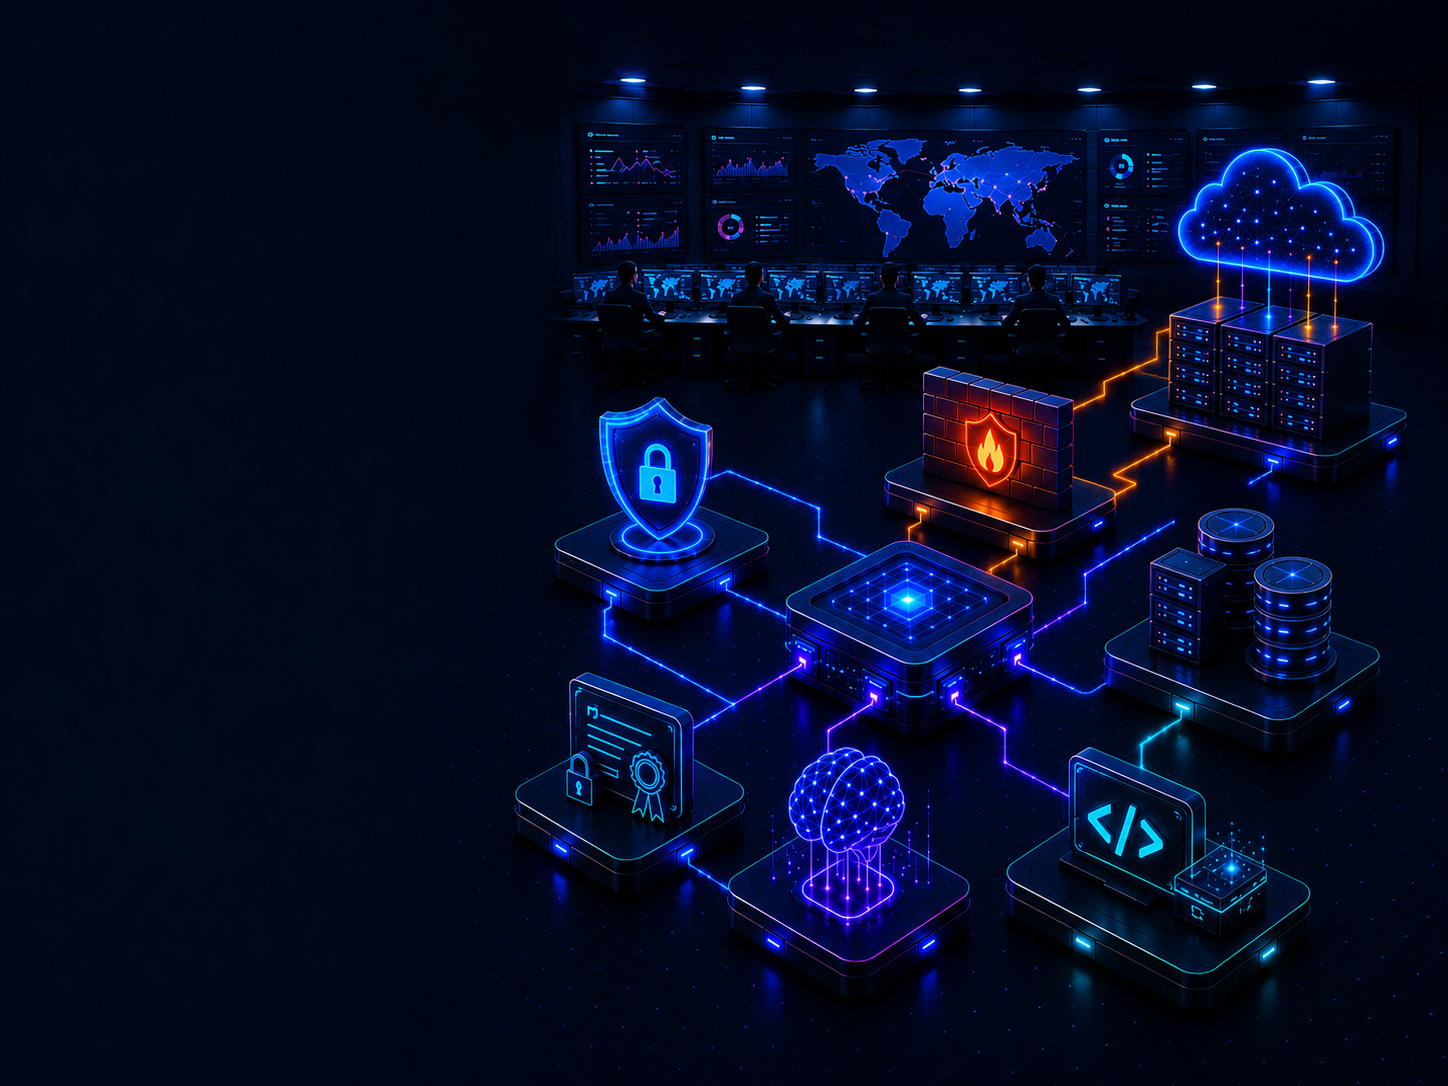
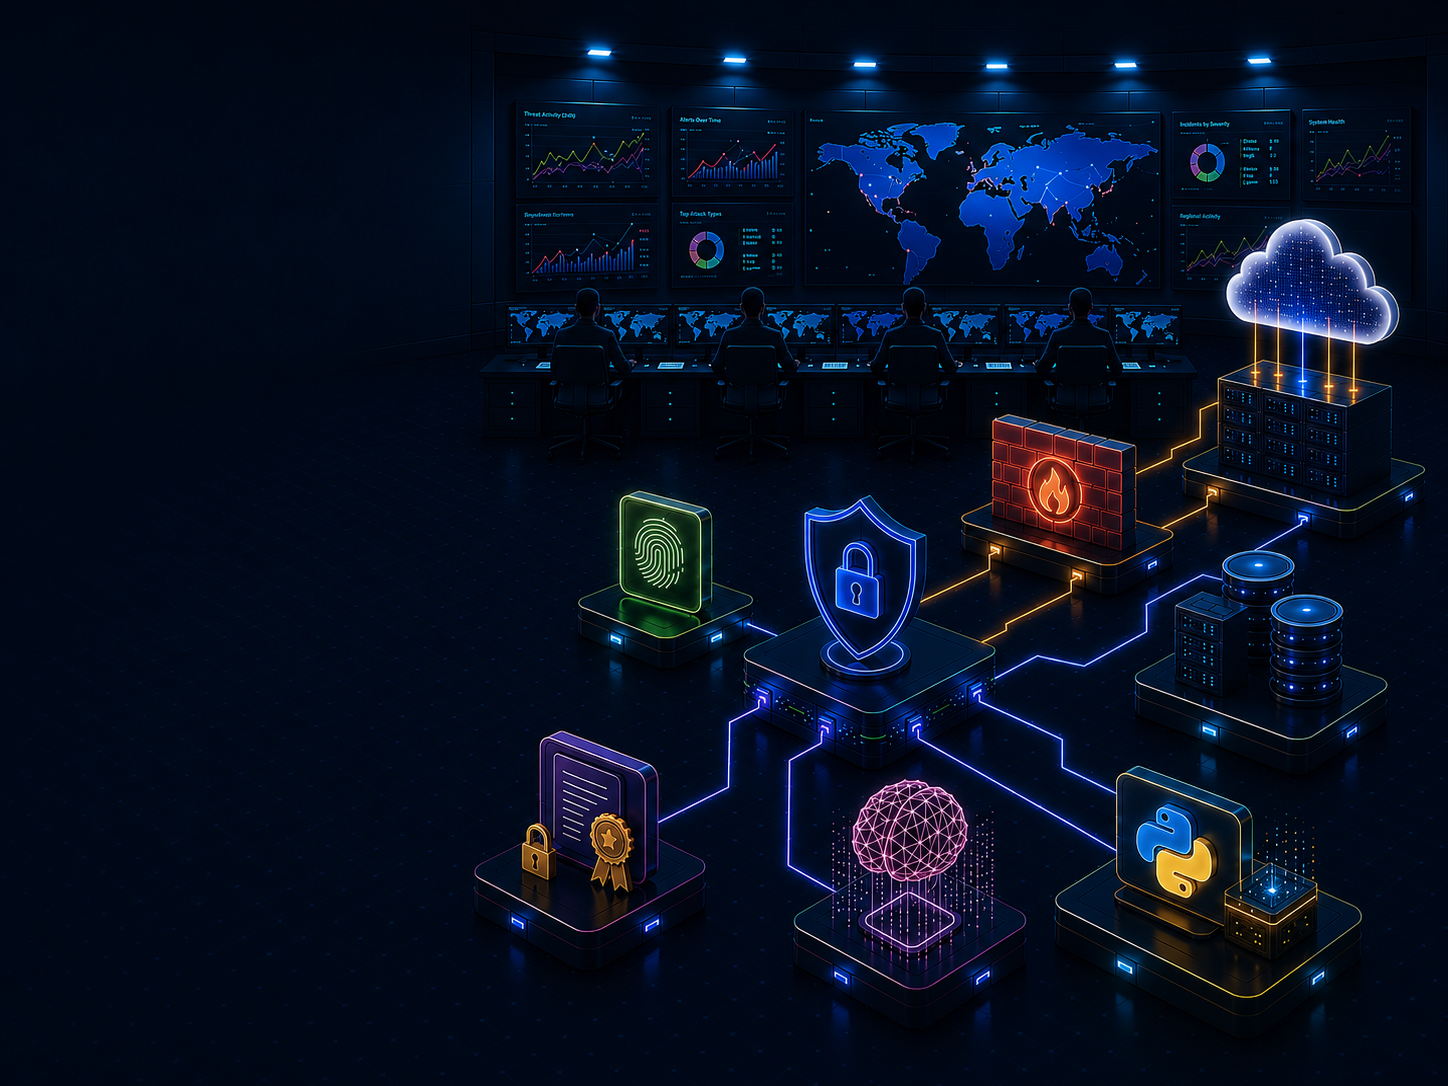
feat(landing): refresh Engineering Portal card artwork
- Updated security-operations card art for visual consistency
- Image reference versioned (?v=1.3.1) to invalidate cached prior copy

Changed region(s): [[0.3419, 0.0304, 0.9945, 0.942], [0.3108, 0.1215, 0.3419, 0.1823], [0.3419, 0.3343, 0.3729, 0.3646]]

diff --git a/assets/css/styles.css b/assets/css/styles.css
@@ -357,7 +357,7 @@ main {
 }
 
 .card-visual--portal {
-  background-image: url('../../assets/images/engineering-cybersec-portal-background.png');
+  background-image: url('../../assets/images/engineering-cybersec-portal-background.png?v=1.3.1');
 }
 
 .card-visual-overlay {